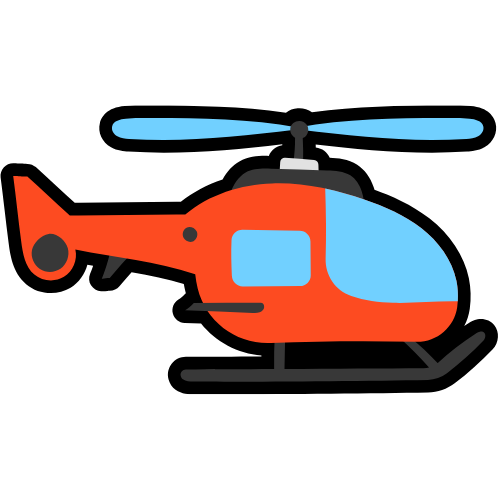
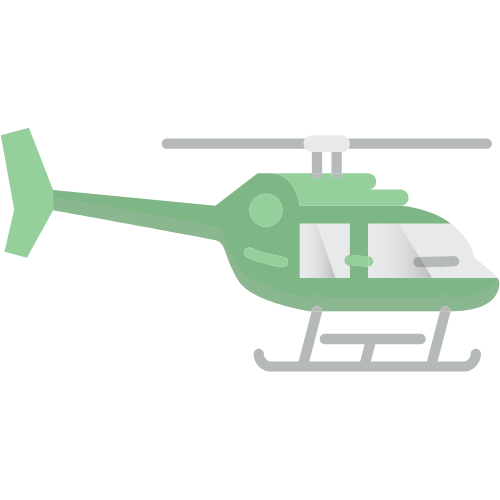
Troca imagem do helicoptero

diff --git a/main.c b/main.c
@@ -10,8 +10,8 @@
 #define LARGURA 800
 #define ALTURA 600
 #define SOLDIERS 10
-#define HELI_W 40
-#define HELI_H 40
+#define HELI_W 60
+#define HELI_H 60
 
 // Estrutura para posição
 typedef struct {
